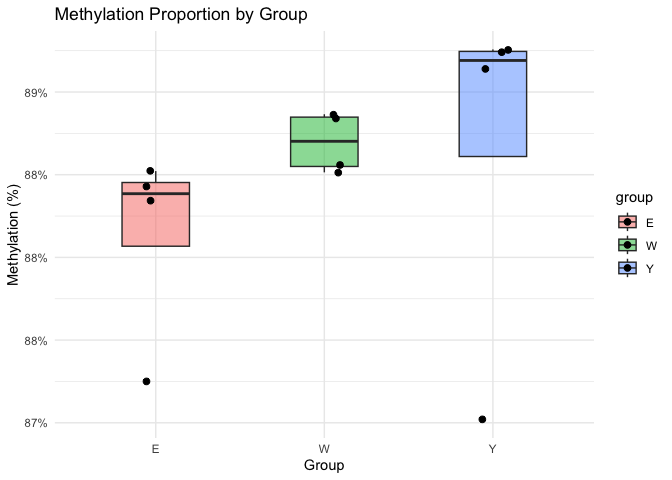
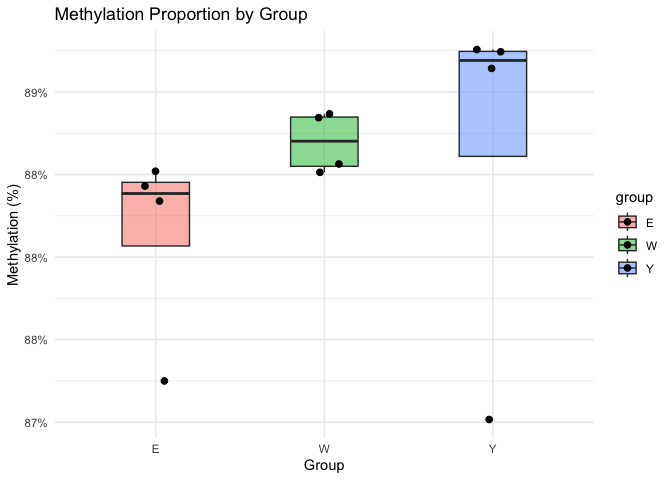
rmd

diff --git a/results/2025-08-06/README.md b/results/2025-08-06/README.md
@@ -1,118 +1,109 @@
+### Before Outlier Filtering
+
 <table>
 <caption>CpG and uCpG Counts with Methylation Proportions</caption>
 <thead>
-<tr class="header">
+<tr>
 <th style="text-align: left;">id</th>
 <th style="text-align: right;">CpG</th>
 <th style="text-align: right;">uCpG</th>
 <th style="text-align: left;">group</th>
-<th style="text-align: right;">total</th>
 <th style="text-align: right;">prop</th>
 </tr>
 </thead>
 <tbody>
-<tr class="odd">
+<tr>
 <td style="text-align: left;">Y1</td>
 <td style="text-align: right;">4308615</td>
 <td style="text-align: right;">642693</td>
 <td style="text-align: left;">Y</td>
-<td style="text-align: right;">4951308</td>
 <td style="text-align: right;">0.8701973</td>
 </tr>
-<tr class="even">
+<tr>
 <td style="text-align: left;">Y2</td>
 <td style="text-align: right;">25330027</td>
 <td style="text-align: right;">3053642</td>
 <td style="text-align: left;">Y</td>
-<td style="text-align: right;">28383669</td>
 <td style="text-align: right;">0.8924155</td>
 </tr>
-<tr class="odd">
+<tr>
 <td style="text-align: left;">Y3</td>
 <td style="text-align: right;">42007137</td>
 <td style="text-align: right;">5055681</td>
 <td style="text-align: left;">Y</td>
-<td style="text-align: right;">47062818</td>
 <td style="text-align: right;">0.8925759</td>
 </tr>
-<tr class="even">
+<tr>
 <td style="text-align: left;">Y4</td>
 <td style="text-align: right;">40587466</td>
 <td style="text-align: right;">4944743</td>
 <td style="text-align: left;">Y</td>
-<td style="text-align: right;">45532209</td>
 <td style="text-align: right;">0.8914012</td>
 </tr>
-<tr class="odd">
+<tr>
 <td style="text-align: left;">E1</td>
 <td style="text-align: right;">21675688</td>
 <td style="text-align: right;">2860849</td>
 <td style="text-align: left;">E</td>
-<td style="text-align: right;">24536537</td>
 <td style="text-align: right;">0.8834045</td>
 </tr>
-<tr class="even">
+<tr>
 <td style="text-align: left;">E2</td>
 <td style="text-align: right;">10002396</td>
 <td style="text-align: right;">1461799</td>
 <td style="text-align: left;">E</td>
-<td style="text-align: right;">11464195</td>
 <td style="text-align: right;">0.8724900</td>
 </tr>
-<tr class="odd">
+<tr>
 <td style="text-align: left;">E3</td>
 <td style="text-align: right;">43584903</td>
 <td style="text-align: right;">5651380</td>
 <td style="text-align: left;">E</td>
-<td style="text-align: right;">49236283</td>
 <td style="text-align: right;">0.8852192</td>
 </tr>
-<tr class="even">
+<tr>
 <td style="text-align: left;">E4</td>
 <td style="text-align: right;">41349553</td>
 <td style="text-align: right;">5410179</td>
 <td style="text-align: left;">E</td>
-<td style="text-align: right;">46759732</td>
 <td style="text-align: right;">0.8842983</td>
 </tr>
-<tr class="odd">
+<tr>
 <td style="text-align: left;">W1</td>
 <td style="text-align: right;">38800768</td>
 <td style="text-align: right;">4861527</td>
 <td style="text-align: left;">W</td>
-<td style="text-align: right;">43662295</td>
 <td style="text-align: right;">0.8886562</td>
 </tr>
-<tr class="even">
+<tr>
 <td style="text-align: left;">W2</td>
 <td style="text-align: right;">22889880</td>
 <td style="text-align: right;">2956346</td>
 <td style="text-align: left;">W</td>
-<td style="text-align: right;">25846226</td>
 <td style="text-align: right;">0.8856179</td>
 </tr>
-<tr class="odd">
+<tr>
 <td style="text-align: left;">W3</td>
 <td style="text-align: right;">22925819</td>
 <td style="text-align: right;">2974891</td>
 <td style="text-align: left;">W</td>
-<td style="text-align: right;">25900710</td>
 <td style="text-align: right;">0.8851425</td>
 </tr>
-<tr class="even">
+<tr>
 <td style="text-align: left;">W4</td>
 <td style="text-align: right;">17946855</td>
 <td style="text-align: right;">2253938</td>
 <td style="text-align: left;">W</td>
-<td style="text-align: right;">20200793</td>
 <td style="text-align: right;">0.8884233</td>
 </tr>
 </tbody>
 </table>
 
-CpG and uCpG Counts with Methylation Proportions
-
 ![](README_files/figure-markdown_strict/setup-1.png)
+
+### After Outlier Filtering
+
+![](README_files/figure-markdown_strict/outlier-1.png)
 
     ## 
     ## Call:
@@ -120,48 +111,50 @@ CpG and uCpG Counts with Methylation Proportions
     ## 
     ## Coefficients:
     ##              Estimate Std. Error z value Pr(>|z|)    
-    ## (Intercept) 2.0255154  0.0002713 7467.31   <2e-16 ***
-    ## groupW      0.0364297  0.0004000   91.08   <2e-16 ***
-    ## groupY      0.0779047  0.0003943  197.56   <2e-16 ***
+    ## (Intercept) 2.0356790  0.0002850 7143.54   <2e-16 ***
+    ## groupW      0.0262660  0.0004094   64.16   <2e-16 ***
+    ## groupY      0.0766544  0.0004088  187.53   <2e-16 ***
     ## ---
     ## Signif. codes:  0 '***' 0.001 '**' 0.01 '*' 0.05 '.' 0.1 ' ' 1
     ## 
     ## (Dispersion parameter for binomial family taken to be 1)
     ## 
-    ##     Null deviance: 79637  on 11  degrees of freedom
-    ## Residual deviance: 40559  on  9  degrees of freedom
-    ## AIC: 40764
+    ##     Null deviance: 40116.8  on 9  degrees of freedom
+    ## Residual deviance:  3888.9  on 7  degrees of freedom
+    ## AIC: 4063.6
     ## 
     ## Number of Fisher Scoring iterations: 3
 
-    ## Null deviance: 79637 on 11 degrees of freedom
+    ## Null deviance: 40117 on 9 degrees of freedom
 
-    ## Residual deviance: 40559 on 9 degrees of freedom
+    ## Residual deviance: 3889 on 7 degrees of freedom
 
-    ## AIC: 40764
+    ## AIC: 4064
 
 <table>
 <caption>Estimated Methylation Proportions by Group (from GLM)</caption>
 <thead>
-<tr class="header">
+<tr>
 <th style="text-align: left;">Group</th>
 <th style="text-align: right;">Estimated_Proportion</th>
 </tr>
 </thead>
 <tbody>
-<tr class="odd">
+<tr>
 <td style="text-align: left;">E</td>
-<td style="text-align: right;">0.8835</td>
+<td style="text-align: right;">0.8845</td>
 </tr>
-<tr class="even">
+<tr>
 <td style="text-align: left;">W</td>
 <td style="text-align: right;">0.8871</td>
 </tr>
-<tr class="odd">
+<tr>
 <td style="text-align: left;">Y</td>
-<td style="text-align: right;">0.8912</td>
+<td style="text-align: right;">0.8921</td>
 </tr>
 </tbody>
 </table>
 
-Estimated Methylation Proportions by Group (from GLM)
+### Differential Sites
+
+![](README_files/figure-markdown_strict/diff-sites-1.png)
